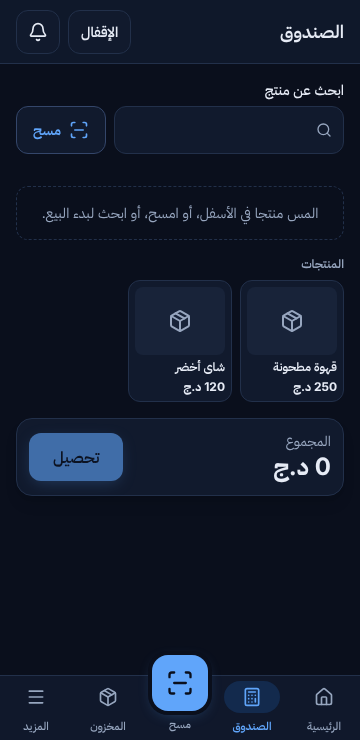
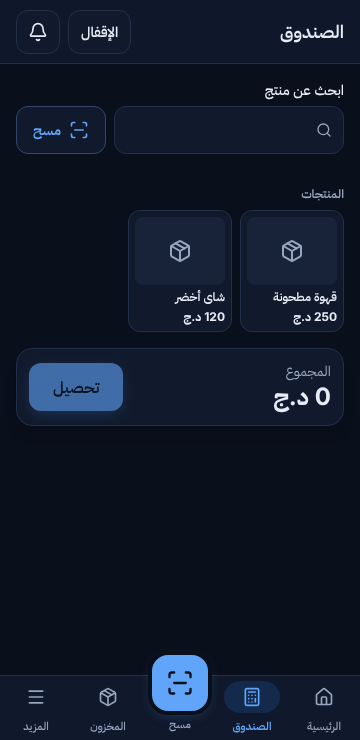
Caisse : cadre gris « Touchez un produit… » retiré ; journal et état
Claude-Session: https://claude.ai/code/session_01QNePhuMDe3SBeKeEAK6VYs

Changed region(s): [[0.0611, 0.2486, 0.9472, 0.6838], [0.0306, 0.5595, 0.0611, 0.5905]]

diff --git a/src/components/Caisse.tsx b/src/components/Caisse.tsx
@@ -233,9 +233,7 @@ export function Caisse({ articles, magasin }: { articles: ArticleCaisse[]; magas
             </li>
           ))}
         </ul>
-      ) : (
-        <p className="rounded-xl border border-dashed border-trait px-4 py-4 text-center text-sm text-doux">{t('panierVide')}</p>
-      )}
+      ) : null}
 
       <section aria-labelledby="caisse-produits" className="flex flex-col gap-2">
         <h2 id="caisse-produits" className="text-xs font-semibold uppercase tracking-wide text-doux">{t('produits')}</h2>

diff --git a/tests/e2e/ventes.spec.ts b/tests/e2e/ventes.spec.ts
@@ -69,7 +69,6 @@ test.beforeAll(async ({ browser }) => {
 
 test('vente en caisse : recherche, scan, monnaie à rendre, ticket', async () => {
   await salim.goto('/caisse');
-  await expect(salim.getByText('Touchez un produit plus bas, scannez ou cherchez pour commencer la vente.')).toBeVisible();
   // Tous les produits sont affichés, sans rien chercher.
   await expect(salim.getByRole('heading', { name: 'Produits' })).toBeVisible();
   await expect(salim.getByRole('button', { name: 'Encaisser' })).toBeDisabled();

diff --git a/docs/journal/ETAT.md b/docs/journal/ETAT.md
@@ -7,10 +7,10 @@ Dernière mise à jour : 18/11/2026 — revue d'ensemble : sécurité de la conn
 - **Les 8 étapes sont construites et testées.** Étapes 0 à 7 validées par le propriétaire ; il a choisi de tout vérifier à la fin.
 - **Étape 8 (sécurité, installation, exploitation) : terminée.** Bilan : `docs/etape-8/02-bilan.md`.
 - **À faire par le propriétaire maintenant** : `docs/VERIFICATION-FINALE.md` (tout ce qu'il faut essayer, et les questions à trancher), en installant d'abord le serveur avec `docs/GUIDE-INSTALLATION.md`.
-- **`main` est à jour** : identique à la branche de travail `claude/vigilant-gates-3k9mjn`. Le guide installe depuis `main`.
+- **`main` est à jour** : identique à la branche de travail `claude/wizardly-newton-jszkps`. Le guide installe depuis `main`.
 - **Essai en ligne (18/11/2026)** : VPS Contabo `155.133.198.241` (hors d'Algérie, données de démonstration seulement), copie de test en service sur `https://test.155-133-198-241.sslip.io`, compte administrateur créé. **Le site réel (`./deployer.sh prod`) n'est pas encore lancé** ; alertes ntfy et `installer.sh cron` pas encore faits. Les secrets restent sur le serveur (`/srv/hanout/deploiement/secrets/`) ; la clé privée de sauvegarde de prod est copiée chez le propriétaire mais **pas encore effacée du serveur**.
 - **Notifications (18/11/2026)** : ouvrir une notification la marque comme lue (migration 0010). À mettre sur le serveur avec la même commande que ci-dessous.
-- **Revue d'ensemble (18/11/2026)**, branche `claude/wizardly-newton-jszkps` (pas encore dans `main`) : un inconnu ne peut plus bloquer le compte d'un commerçant (blocage par adresse ou appareil, appareils reconnus), code de double authentification à usage unique (migration 0011), caisse avec la grille de tous les produits (les plus vendus en haut), menu complet sur ordinateur, langue choisie dans « Plus ». `deployer.sh` rappelle d'effacer la clé privée tant qu'elle est sur le serveur. Détail dans le journal.
+- **Revue d'ensemble (18/11/2026)**, mise dans `main` avec l'accord du propriétaire : un inconnu ne peut plus bloquer le compte d'un commerçant (blocage par adresse ou appareil, appareils reconnus), code de double authentification à usage unique (migration 0011), caisse avec la grille de tous les produits (les plus vendus en haut), menu complet sur ordinateur, langue choisie dans « Plus ». `deployer.sh` rappelle d'effacer la clé privée tant qu'elle est sur le serveur. Détail dans le journal.
 - **Refonte visuelle (18/11/2026)** : blanc, contours bleutés, bleu principal, sombre bleu nuit, police Inter. Voir `docs/refonte-visuelle/01-recherche.md`. Pour l'avoir sur le serveur : `cd /srv/hanout && git pull && cd deploiement && ./deployer.sh test`.
 
 ## Façon de travailler (décidée par le propriétaire le 16/11/2026)
@@ -23,7 +23,7 @@ Dernière mise à jour : 18/11/2026 — revue d'ensemble : sécurité de la conn
 
 ## Prochaine action
 
-0. Faire valider par le propriétaire la revue du 18/11 (branche `claude/wizardly-newton-jszkps`), la mettre dans `main` avec son accord, puis sur le serveur (`git pull` puis `./deployer.sh test`). **Le propriétaire doit effacer la clé privée du serveur** : `rm /srv/hanout/deploiement/secrets/*/CLE-PRIVEE-A-RECUPERER.asc` (après avoir vérifié qu'il en a bien une copie).
+0. La revue du 18/11 est dans `main` : la mettre sur le serveur (`git pull` puis `./deployer.sh test`) et recueillir l'avis du propriétaire. **Le propriétaire doit effacer la clé privée du serveur** : `rm /srv/hanout/deploiement/secrets/*/CLE-PRIVEE-A-RECUPERER.asc` (après avoir vérifié qu'il en a bien une copie).
 1. Faire mettre à jour la copie de test du VPS (`git pull` puis `./deployer.sh test`), recueillir l'avis du propriétaire sur le nouveau design, puis lancer `./deployer.sh prod`, `./outils.sh prod admin …`, les alertes ntfy et `./installer.sh cron`, et faire effacer les clés privées du serveur.
 2. Obtenir les réponses du propriétaire aux questions de `docs/VERIFICATION-FINALE.md` (en particulier : longueur des mots de passe des commerçants). Proposition faite pour un essai gratuit : Oracle Cloud « Always Free » + adresse sslip.io, avec des données de démonstration seulement.
 3. Aider le propriétaire à louer le serveur et à suivre le guide ; corriger ce que l'installation réelle révèle (image Debian + Chromium, Let's Encrypt, second serveur, notifications sur un vrai téléphone).

diff --git a/docs/journal/JOURNAL.md b/docs/journal/JOURNAL.md
@@ -2,6 +2,11 @@
 
 Entrées les plus récentes en haut. Une entrée par action importante.
 
+## 18/11/2026 — Caisse : cadre gris retiré, tout mis dans `main`
+
+- Demande du propriétaire : le cadre gris en pointillés de la caisse (« Touchez un produit plus bas… ») ne sert à rien ; retiré (texte `caisse.panierVide` supprimé en fr/ar). La grille des produits suffit.
+- Accord du propriétaire pour mettre la branche `claude/wizardly-newton-jszkps` dans `main` : fait. Tests : 145 ✅, parcours de la caisse ✅.
+
 ## 18/11/2026 — Revue d'ensemble, sécurité de la connexion, caisse en grille, menu sur ordinateur, langue dans « Plus »
 
 - **Revue demandée par le propriétaire** (simplicité, liens entre modules, défauts, sécurité). Bilan : architecture solide (RLS forcée, chiffrement des champs, Argon2id, CSP stricte, entrées vérifiées). Propositions faites ; le propriétaire a choisi : sécurité 1, 3, 4, 5 et simplicité 2 (caisse : tous les produits, les plus vendus en haut), 5 et 6. Le reste n'est pas touché (longueur des mots de passe, bouton « Commandes » en bas, client reconnu, liste des communes).
